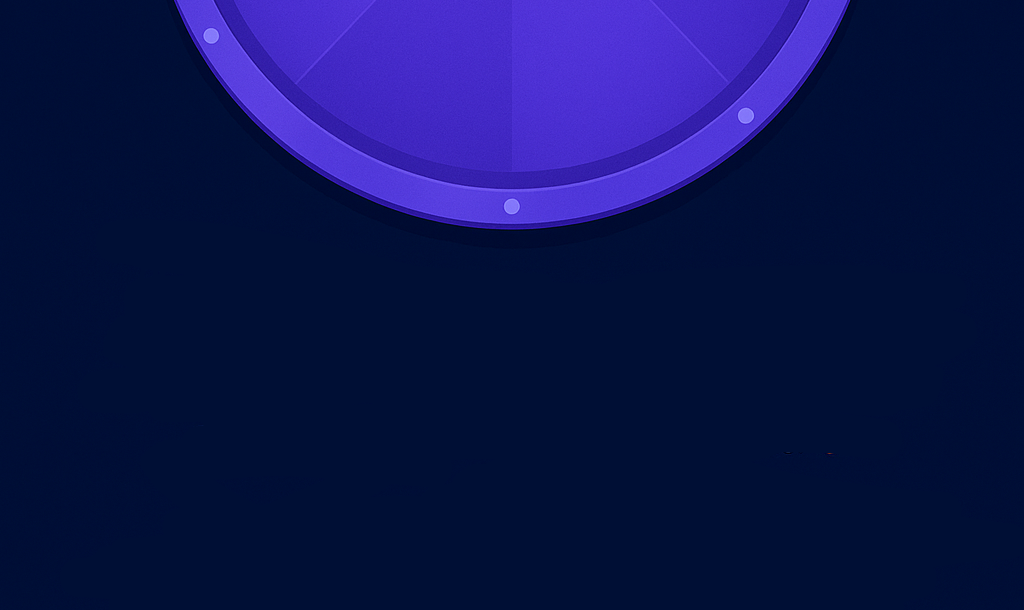
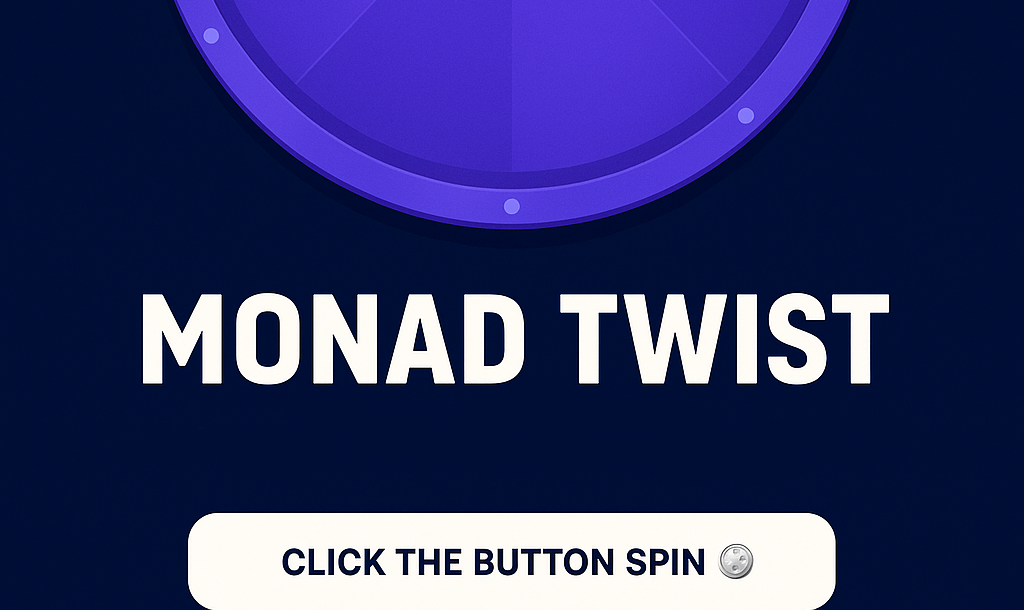
change og-image

Changed region(s): [[0.125, 0.4672, 0.875, 0.6541], [0.1562, 0.841, 0.8438, 1.0]]

diff --git a/pages/api/og-image.ts b/pages/api/og-image.ts
@@ -101,8 +101,8 @@ export default async function handler(req: Request) {
           {
             style: {
               position: 'absolute',
-              bottom: 200,
-              right: 350,
+              top: 120,
+              right: 180,
               display: 'flex',
               flexDirection: 'column',
               alignItems: 'center',
@@ -117,7 +117,7 @@ export default async function handler(req: Request) {
               height: 100,
               style: {
                 borderRadius: '50%',
-                border: '4px solid #fff',
+                border: '6px solid #fff',
                 background: '#fff',
                 objectFit: 'contain',
               },
@@ -133,21 +133,21 @@ export default async function handler(req: Request) {
                   textAlign: 'center',
                 },
               },
-              `+${wonValue}`
+              `+${wonValue} ${wonText || ''}`
             ),
-            wonText && React.createElement(
-              'div',
-              {
-                style: {
-                  color: '#fff',
-                  fontSize: 32,
-                  fontWeight: 'bold',
-                  textShadow: '2px 2px 8px #000',
-                  textAlign: 'center',
-                },
-              },
-              wonText
-            ),
+            // wonText && React.createElement(
+            //   'div',
+            //   {
+            //     style: {
+            //       color: '#fff',
+            //       fontSize: 32,
+            //       fontWeight: 'bold',
+            //       textShadow: '2px 2px 8px #000',
+            //       textAlign: 'center',
+            //     },
+            //   },
+            //   wonText
+            // ),
           ]
         ),
         // React.createElement(
@@ -179,7 +179,7 @@ export default async function handler(req: Request) {
               bottom: 80,
               left: 180,
               color: 'white',
-              fontSize: 30,
+              fontSize: 24,
               fontWeight: '600',
               textShadow: '1px 1px 4px #000',
               zIndex: 2,
